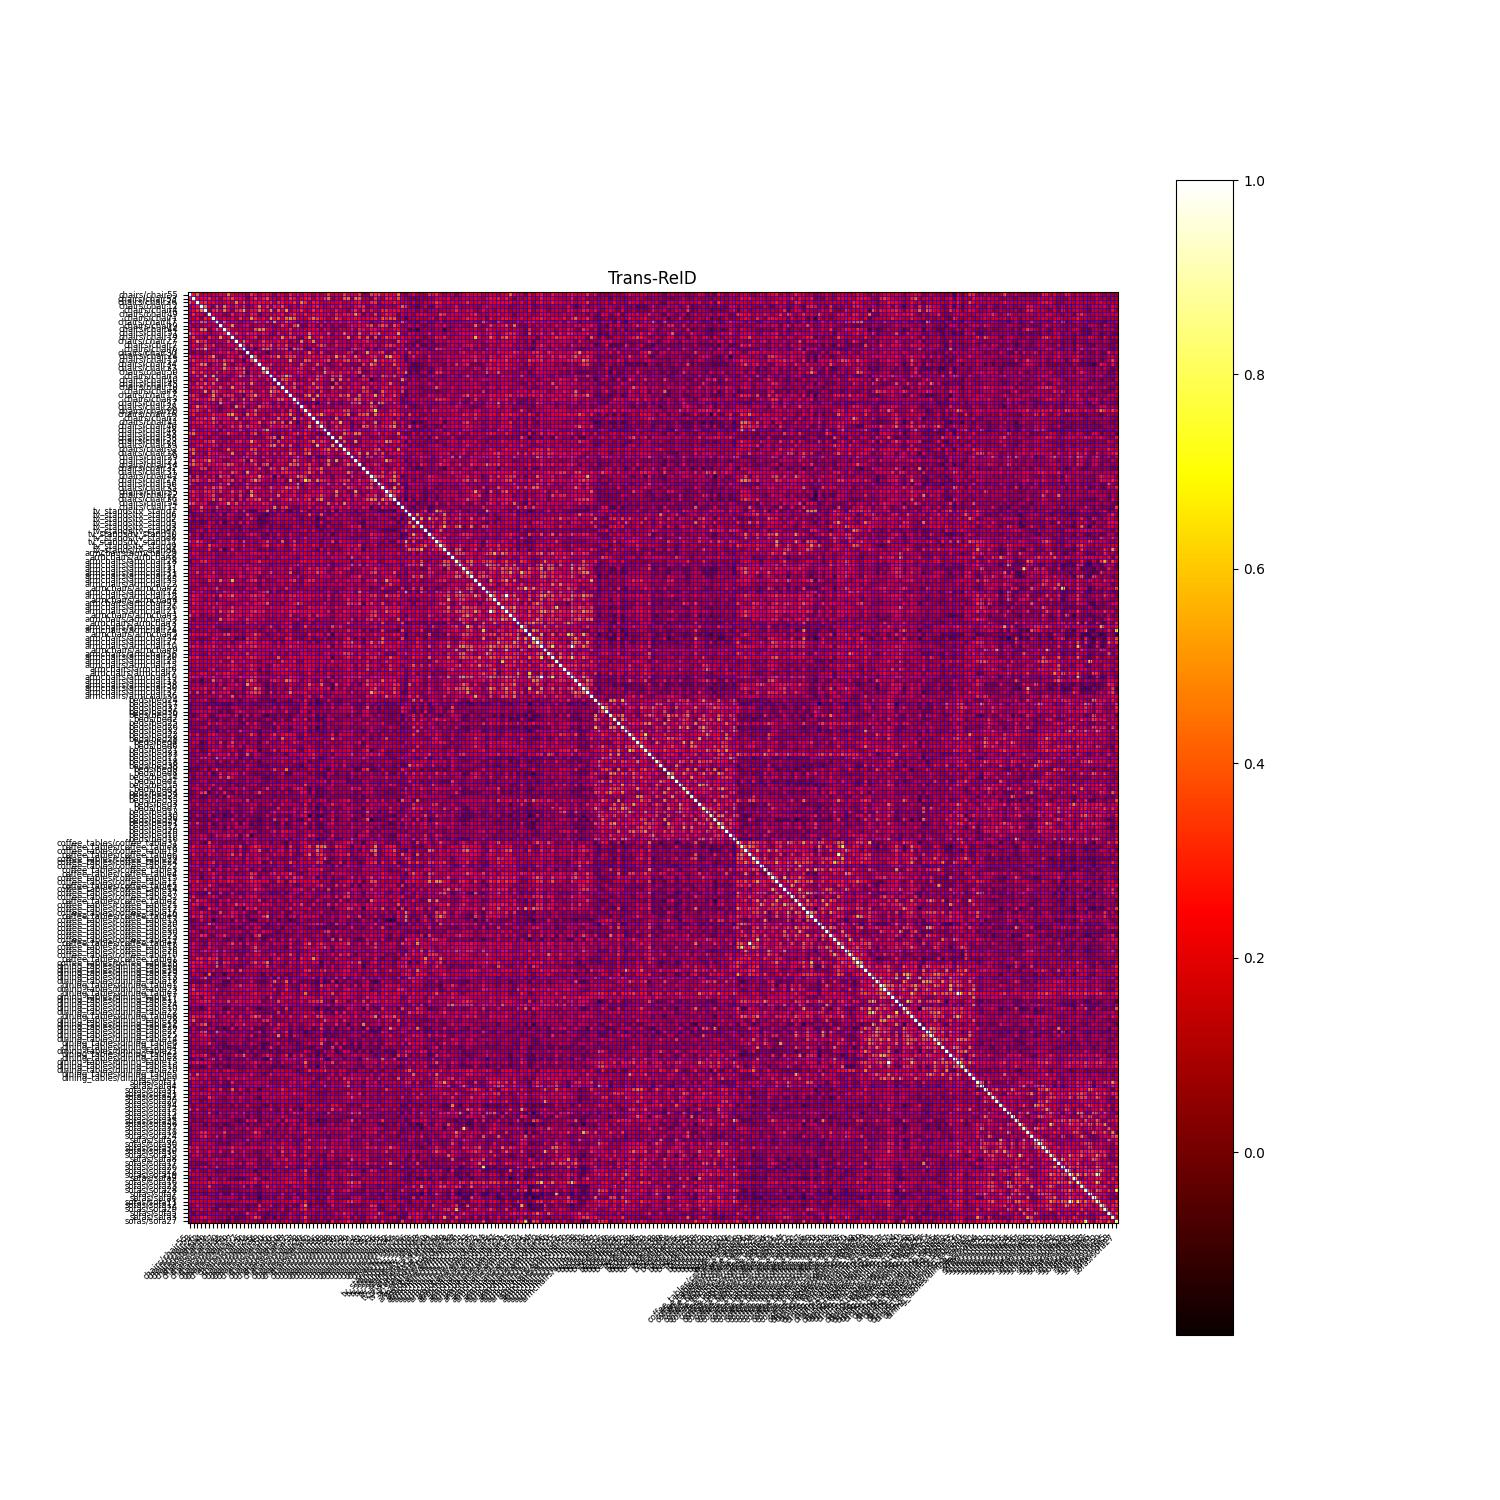
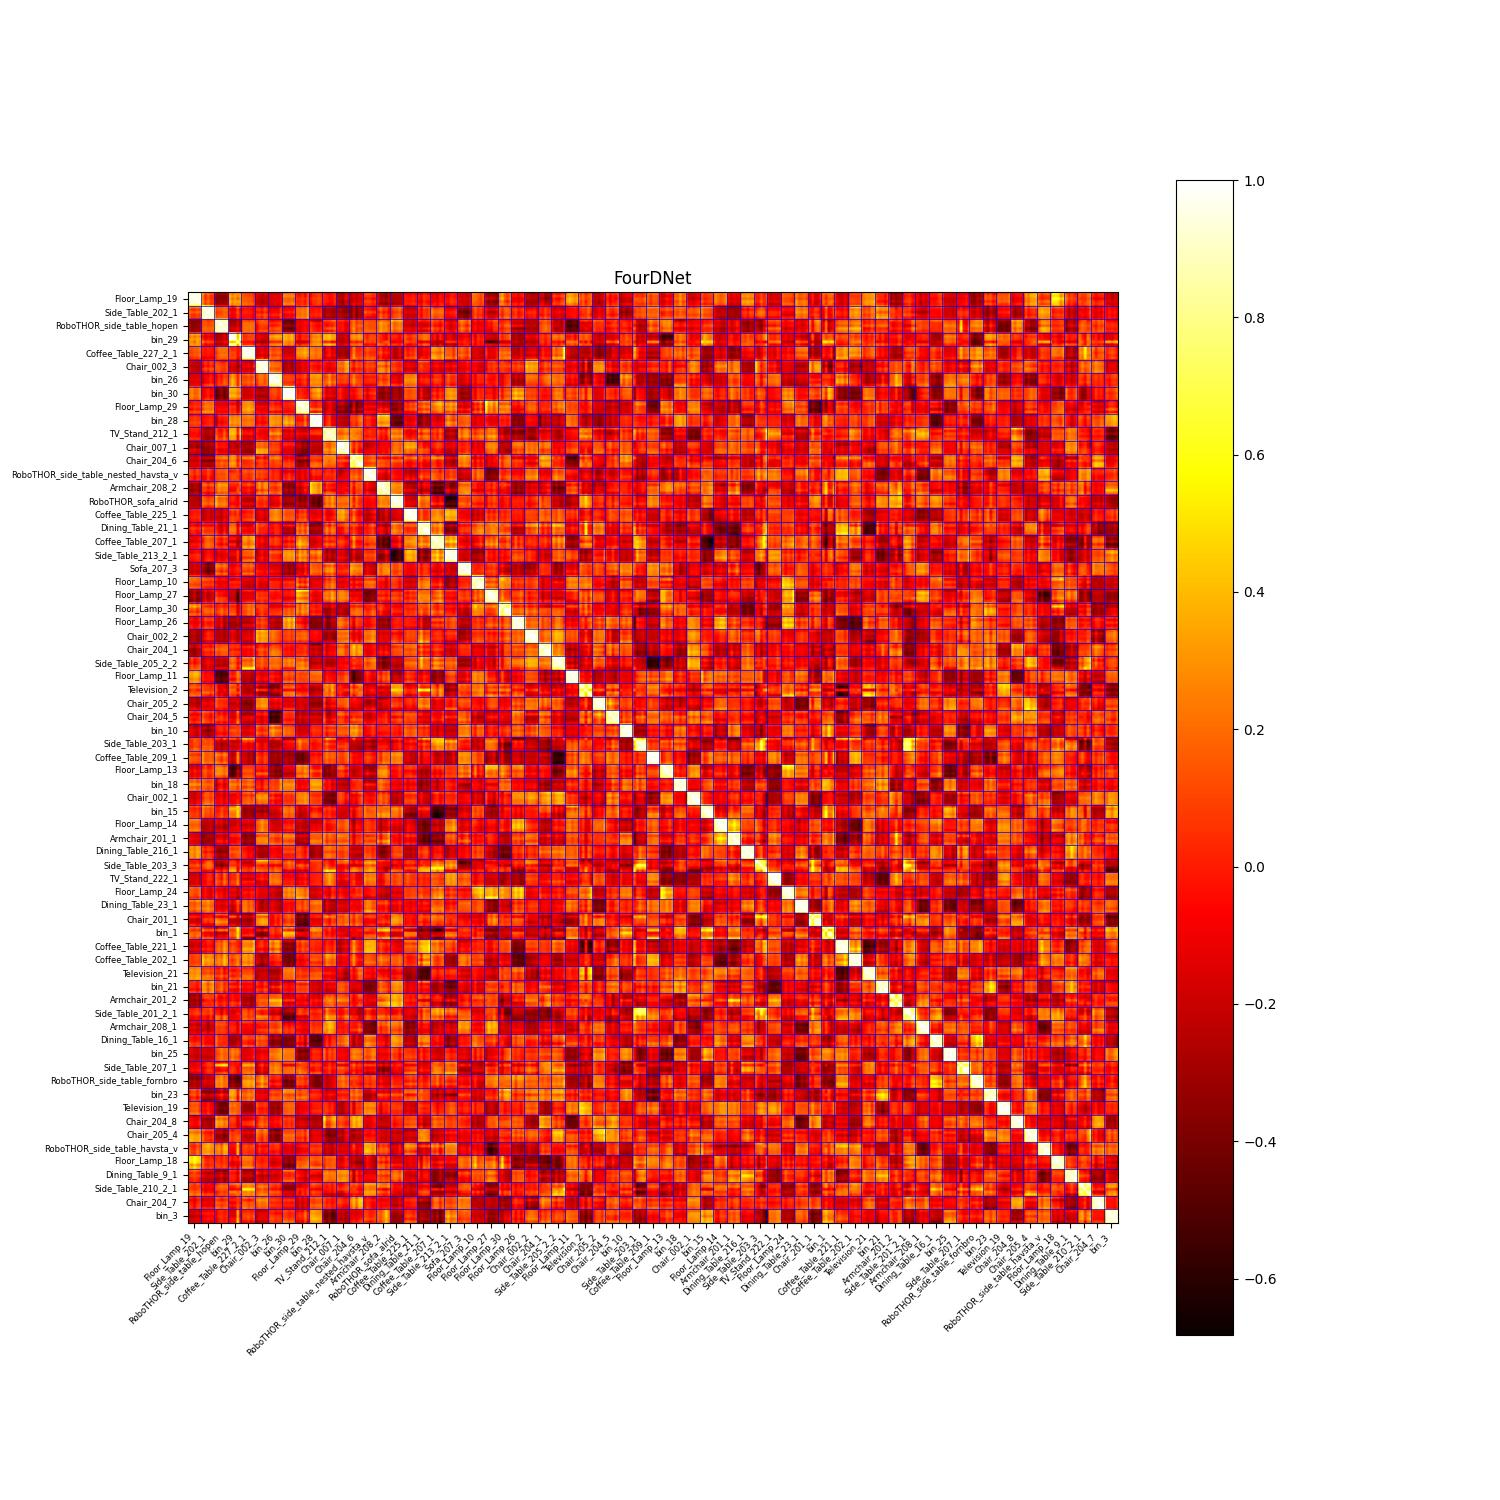
test_heatmap.py works

diff --git a/test_heatmap.py b/test_heatmap.py
@@ -20,8 +20,8 @@ import torch.nn.functional as F
 import pickle
 
 
-NUM_CLASSES = 70
-NUM_INSTANCES = 5 
+NUM_CLASSES = 69
+NUM_VIEWS = 5 
 
 if __name__ == "__main__":
     cfg.merge_from_file("config.yml")
@@ -51,12 +51,19 @@ if __name__ == "__main__":
     test_path = "./data/procthor_final/val"
     test_classes = []
     for classname in os.listdir(test_path):
-        test_classes.append(osp.join(test_path, classname))
+        test_classes.append(classname)
 
 
     test_images = [os.listdir(os.path.join(test_path, c)) for c in test_classes]
+    
+    model_inputs = []
     for class_idx, classname in enumerate(test_classes):
-        for img_idx, img in test_images:
+        model_inputs.append([])
+        for img_idx, img in enumerate(test_images[class_idx]):
+            if img.find(".npy") != -1:
+                # if it is a depth image, we do not take it here, it would be taken along with it's rgb counterpart
+                continue
+
             img_name = test_images[class_idx][img_idx]
             rgb_path = osp.join(test_path, classname, img)
             depth_path = osp.join(test_path, classname, img.split(".")[0] + ".npy")
@@ -75,20 +82,21 @@ if __name__ == "__main__":
             depth = depth / 0.5 
             depth = torch.tensor(depth)
 
-            test_images[class_idx][img_idx] = (rgb, depth)
+            model_inputs[-1].append((rgb, depth))
 
+
+    assert len(model_inputs) == NUM_CLASSES
+    assert len(model_inputs[0]) == NUM_VIEWS
 
     model.eval()
     w = []
     with torch.no_grad():
-        with tqdm(total=len(test_images) * len(test_images[0])) as bar:
-            for row in test_images:
+        with tqdm(NUM_CLASSES * NUM_VIEWS) as bar:
+            for ctg in model_inputs:
                 r = []
-                for i in row:
-                    # im = test_transforms(i.convert("RGB"))
-                    im = val_transforms(i)
+                for rgb, depth in ctg:
                     with torch.no_grad():
-                        k = model(im.unsqueeze(0))
+                        k = model(rgb.unsqueeze(0), depth.unsqueeze(0))
                     r.append(k)
                     bar.update(1)
                 w.append(torch.stack(r))
@@ -105,7 +113,7 @@ if __name__ == "__main__":
     plt.imshow(scores, cmap="hot")
     plt.colorbar()
 
-    num_instances = NUM_INSTANCES
+    num_instances = NUM_VIEWS
 
     x_axis_titles = [
         f"{test_classes[i//num_instances]}"
@@ -140,5 +148,5 @@ if __name__ == "__main__":
             plt.axhline(y=i - 0.5, color="blue", linestyle="-", linewidth=0.5)
 
     # Show the heatmap
-    plt.title("Trans-ReID")
+    plt.title("FourDNet")
     plt.savefig("heatmap.jpg")

diff --git a/model/make_model.py b/model/make_model.py
@@ -564,7 +564,7 @@ class build_FourDNet(nn.Module):
 
 
         # development stage
-        self.visualize = True
+        self.visualize = False
         self.vis_count = 0
         self.max_vis = 25
         if self.visualize and osp.exists(f"vis"):
@@ -587,8 +587,8 @@ class build_FourDNet(nn.Module):
 
 
         # loading the pretrained modalities
-        self.load_rgb_pretrained()
-        self.load_depth_pretrained()
+        # self.load_rgb_pretrained()
+        # self.load_depth_pretrained()
 
 
     def load_rgb_pretrained(self):
@@ -609,6 +609,20 @@ class build_FourDNet(nn.Module):
                 self.state_dict()[i].copy_(param_dict[i])
             elif i.find("depth") != -1 or i.find("d2d") != -1 or i.find("Q_d") != -1 or i.find("V_d") != -1:
                 self.state_dict()[i].copy_(param_dict[i])
+
+
+    def load_param(self, trained_path):
+        param_dict = torch.load(trained_path, map_location=f"cuda:0")
+        for i in param_dict:
+            self.state_dict()[i.replace('module.', '')].copy_(param_dict[i])
+        print('Loading pretrained model from {}'.format(trained_path))
+
+
+    def load_param_finetune(self, model_path):
+        param_dict = torch.load(model_path, map_location=f"cuda:0")
+        for i in param_dict:
+            self.state_dict()[i].copy_(param_dict[i])
+        print('Loading pretrained model for finetuning from {}'.format(model_path))
 
 
 
